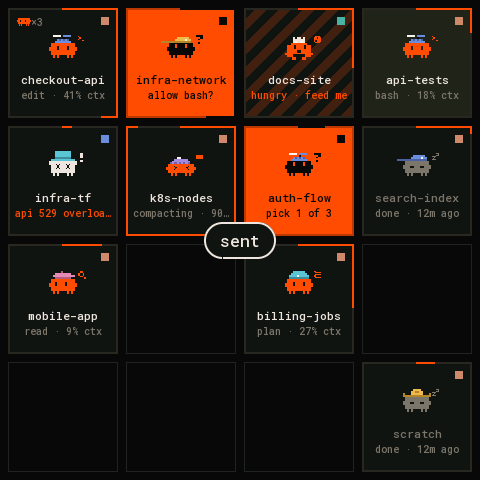
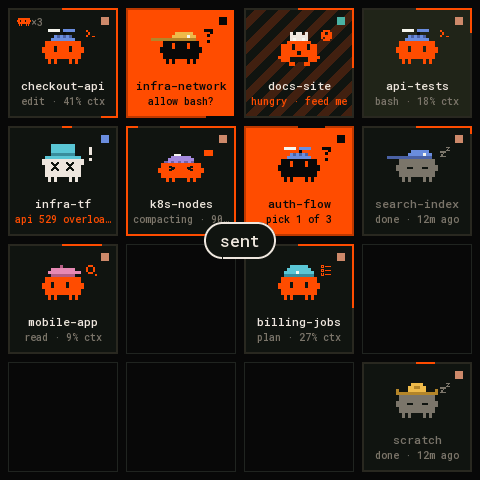
4″ grid: the critter at the deck's proportion (×3, placed like the Flutter tile)
Claude-Session: https://claude.ai/code/session_01Qi6CVTpwKe76G62P4KuUZF

diff --git a/firmware/panel-core/src/layout_square.h b/firmware/panel-core/src/layout_square.h
@@ -93,7 +93,7 @@ static inline SquareSpec specLcd4() {
   s.home = HomeKind::Grid; s.cols = 4; s.rows = 4; s.pad = 8; s.gap = 8; s.barsH = 30;
   s.tileW = 0; s.tileH = 0; s.headerH = 0;
   s.tileTitle = &FONT_S; s.tileMeta = &FONT_XS; s.hud = &FONT_S;
-  s.tileScale = 2; s.subScale = 1;
+  s.tileScale = 3; s.subScale = 1;   // the critter at the deck's proportion: 54 px on a 110 px tile (Flutter: 92 on 170)
   s.cardScale = 4; s.promptScale = 2; s.noticeScale = 6;
   s.ctxPitch = 6; s.ctxTickW = 2; s.ctxTickH = 10; s.ctxFillH = 8;
   s.btnR = 36; s.btnGap = 26; s.btnFromBottom = 54;
@@ -660,10 +660,21 @@ static inline TileParts tileParts(const SquareSpec& S, const Rect& r, bool list)
   // The critter's box starts below the band (its hat rises one unit into it).
   const int textH = S.tileTitle->cellH + S.tileMeta->cellH;
   const int free = r.h - band - critterH - textH - barH - 6;
-  const int gapTop = free > 0 ? free / 3 : 0;
-  int y = r.y + band + gapTop - p.scale;
-  p.critter = Rect{r.x + r.w / 2 - 7 * p.scale, y, 18 * p.scale, critterH};
-  y += critterH + (free > 0 ? free / 3 : 0) + 2;
+  int y;
+  if (list) {
+    const int gapTop = free > 0 ? free / 3 : 0;
+    y = r.y + band + gapTop - p.scale;
+    p.critter = Rect{r.x + r.w / 2 - 7 * p.scale, y, 18 * p.scale, critterH};
+    y += critterH + (free > 0 ? free / 3 : 0) + 2;
+  } else {
+    // The deck's tile (Flutter, 170 px): 30 px down to the critter, 14 px from
+    // it to the name. Same proportions here, never above the icon band.
+    int top = r.h * 30 / 170;
+    if (top < band) top = band;
+    y = r.y + top;
+    p.critter = Rect{r.x + r.w / 2 - 7 * p.scale, y, 18 * p.scale, critterH};
+    y += critterH + r.h * 14 / 170;
+  }
   p.name = Rect{r.x + in / 2, y, r.w - in, S.tileTitle->cellH};
   y += S.tileTitle->cellH;
   p.meta = Rect{r.x + in / 2, y, r.w - in, S.tileMeta->cellH};
